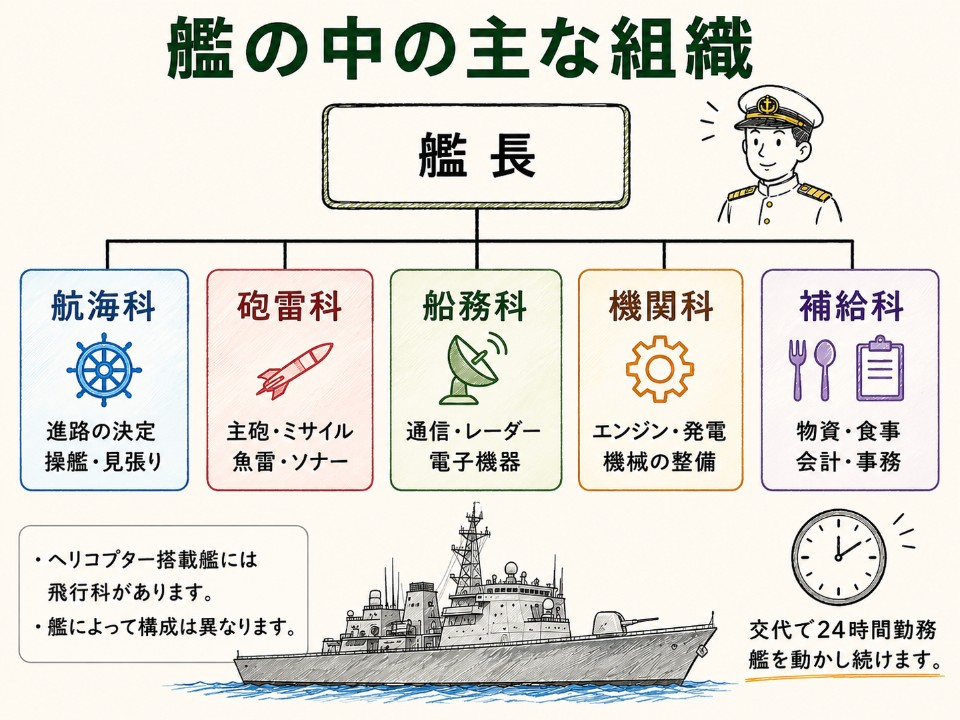
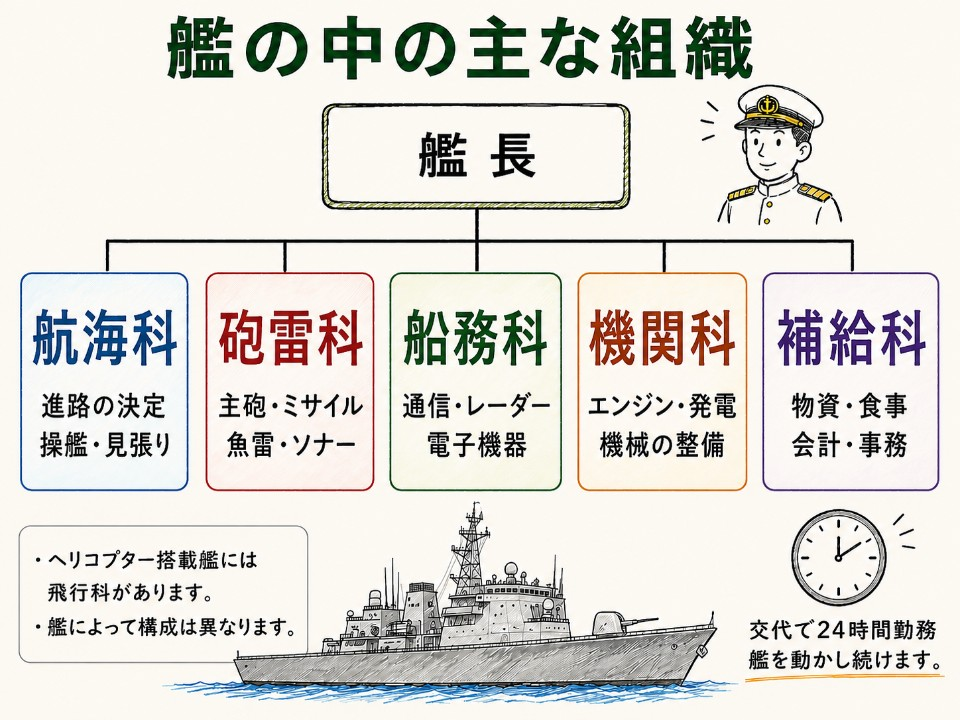
ps

diff --git a/staging/TAKERU/sw.js b/staging/TAKERU/sw.js
@@ -1,6 +1,6 @@
 // ★デプロイ(push)のたびに SW_VERSION と CACHE_NAME の番号を一緒に上げる
-const SW_VERSION = 'v114';
-const CACHE_NAME = 'takeru-v114';
+const SW_VERSION = 'v115';
+const CACHE_NAME = 'takeru-v115';
 
 const PRE_CACHE = [
     './',
